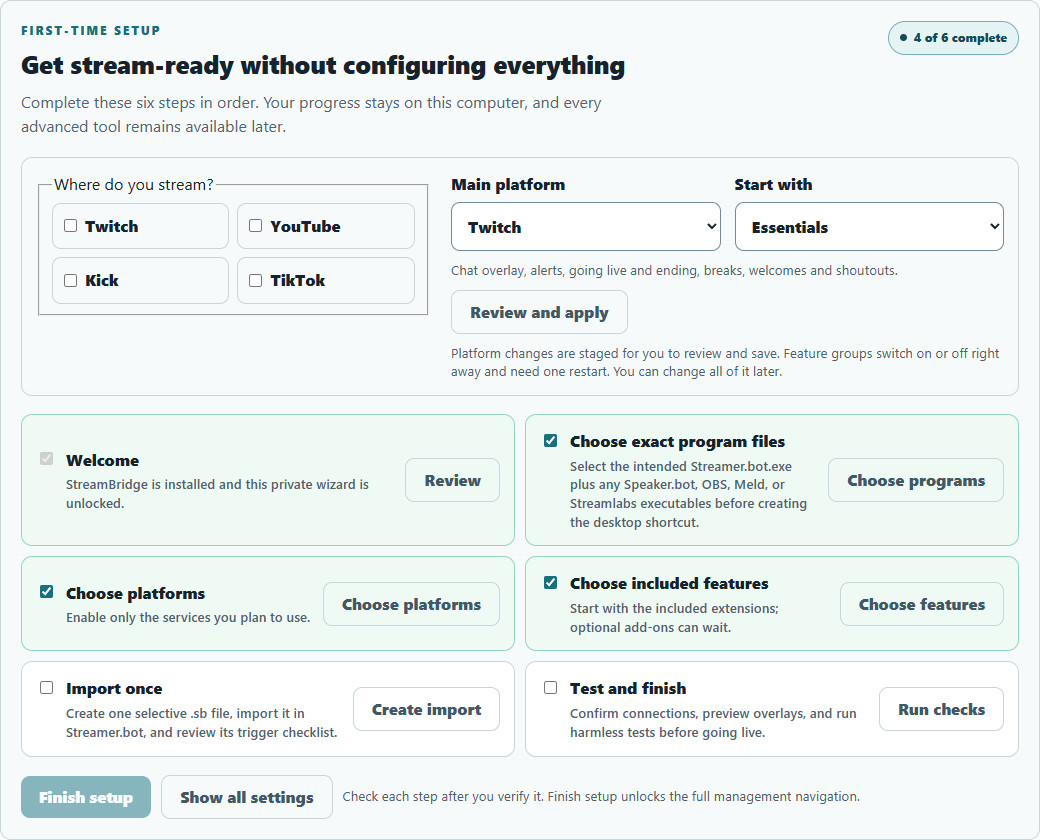
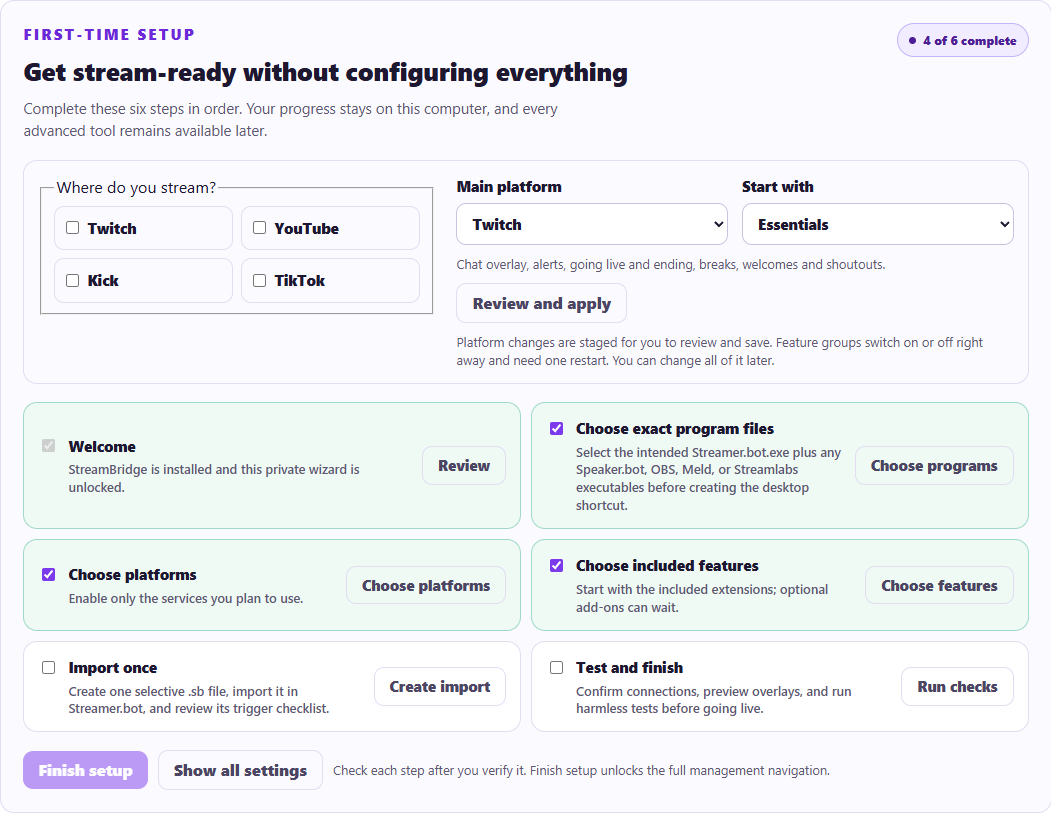
Wizard refresh, part 2: purple theme, card sections, pill controls
- One purple accent on a deep purple-black page (dark) or a soft lilac
  page (light), charcoal or white cards with 14px corners.
- Every foldable section reads as a card: bold title, soft subtitle and a
  round fold button on the right (nested add-on sections too).
- The Settings / Streamer.bot / Overlay / Status bar is one wide pill bar
  with the open tab filled.
- Short choice lists (2 to 4 short options) in add-on settings become pill
  buttons; the select stays in the form, hidden, so saving is unchanged.
- Pill-shaped preview, copy and compact buttons; soft card fieldsets.
- Quick start screenshots retaken in the new look.

diff --git a/wizard/browser/styles.css b/wizard/browser/styles.css
@@ -1019,3 +1019,70 @@ button{padding:9px 15px}
 .stepper-up::after{content:"";position:absolute;top:50%;left:50%;width:2px;height:12px;border-radius:2px;background:currentColor;transform:translate(-50%,-50%)}
 .stepper-up{position:relative}
 .stepper:has(input:disabled) .stepper-button{opacity:.4;cursor:not-allowed}
+
+
+/* ---------- Refresh, part 2: one purple accent, card sections, pill controls ----------
+   Theme tokens first, so every older rule picks up the new palette; then card-style sections with a round
+   fold button, a pill tab bar, pill choice buttons (wizard/ui-refresh.js) and pill preview chips. */
+:root:not([data-theme="light"]){
+  --page:#0c0a16;--page-accent:#26145a;--text:#f5f3ff;--muted:#b4b0c6;--subtle:#a7a3ba;
+  --surface:rgba(19,18,26,.97);--panel:#16151d;--code:#0f0e15;--border:#2b2938;
+  --input:#0f0e15;--input-border:#3a3749;--button:#8b5cf6;--button-hover:#9d76f8;--accent:#a78bfa;
+  --active:#2a1f4d;--active-text:#f5f3ff;--nav:#c9c5da;--nav-hover:rgba(167,139,250,.1);
+  --eyebrow:#b9a3ff;--badge-bg:#1d1736;--badge-border:#4b3a85;--badge-text:#d8ccff;
+  --owned-bg:#221a40;--owned-text:#d8ccff;--owned-border:#4b3a85;--notice:#17142a;
+  --small:#9d99b0;--shadow:#0008;--radius-lg:16px;--radius-md:14px;--radius-sm:10px
+}
+:root[data-theme="light"]{
+  --page:#f6f5fb;--page-accent:#e7defd;--text:#1d1830;--muted:#5d5873;--subtle:#5d5873;
+  --surface:rgba(255,255,255,.98);--panel:#fbfaff;--code:#f1eefb;--border:#e2ddf0;
+  --input:#fff;--input-border:#c9c2e0;--button:#7c3aed;--button-hover:#6d28d9;--accent:#6d28d9;
+  --active:#efe9ff;--active-text:#2e1a63;--nav:#4b4563;--nav-hover:rgba(124,58,237,.07);
+  --eyebrow:#6d28d9;--badge-bg:#f1ecff;--badge-border:#c5b3fb;--badge-text:#4c1d95;
+  --owned-bg:#f1ecff;--owned-text:#4c1d95;--owned-border:#c5b3fb;--notice:#f4f1fe;
+  --small:#6b6683;--radius-lg:16px;--radius-md:14px;--radius-sm:10px
+}
+body{background:radial-gradient(ellipse at 70% -10%,var(--page-accent) 0,transparent 55%),radial-gradient(ellipse at 0 100%,color-mix(in srgb,var(--page-accent) 55%,transparent) 0,transparent 45%),var(--page)}
+
+/* Cards */
+.transaction,.form-section,.item,.stat,.addon-card,.main-feature-card{border-color:var(--border);border-radius:var(--radius-md);background:var(--panel)}
+.transaction{padding:22px}
+.content h2{font-weight:900;letter-spacing:-.01em}
+button:not(.ghost):not(.nav):not(.addon-tab):not(.segmented-option):hover{background:var(--button-hover)}
+.ghost{border-radius:var(--radius-sm)}
+input:focus-visible,select:focus-visible,textarea:focus-visible{border-color:var(--accent);box-shadow:0 0 0 3px color-mix(in srgb,var(--accent) 25%,transparent);outline:none}
+
+/* Card sections: title row with a round fold button on the right */
+:is(.form-section,.addon-step,.analytics-details,.main-feature-details,.addon-settings-section,.facebook-section)>summary{position:relative;min-height:40px;padding-right:58px;font-size:1.02rem}
+:is(.form-section,.addon-step,.analytics-details,.main-feature-details,.addon-settings-section,.facebook-section)>summary::after{content:'';position:absolute;top:50%;right:6px;width:34px;height:34px;margin-top:-17px;border:1.5px solid var(--border);border-radius:50%;transition:border-color var(--ease),background-color var(--ease)}
+:is(.form-section,.addon-step,.analytics-details,.main-feature-details,.addon-settings-section,.facebook-section)>summary:hover::after{border-color:var(--accent);background:var(--nav-hover)}
+:is(.form-section,.addon-step,.analytics-details,.main-feature-details,.addon-settings-section,.facebook-section)>summary::before{position:absolute;top:50%;right:20px;width:7px;height:7px;margin-top:-6px;transform:rotate(45deg);color:var(--muted)}
+:is(.form-section,.addon-step,.analytics-details,.main-feature-details,.addon-settings-section,.facebook-section)[open]>summary::before{margin-top:-2px;transform:rotate(-135deg);color:var(--accent)}
+:is(.form-section,.addon-step,.analytics-details,.main-feature-details,.addon-settings-section,.facebook-section)>summary small{font-weight:500;color:var(--muted)}
+
+/* Settings / Overlay / Status: one wide pill bar, the open tab filled */
+.addon-tabs{gap:6px;padding:5px;border-radius:14px;background:color-mix(in srgb,var(--panel) 70%,var(--border) 30%);border-color:transparent}
+.addon-tab{min-height:40px;border-radius:10px}
+.addon-tab[aria-selected="true"],.addon-tab[aria-selected="true"]:hover{background:var(--button);color:#fff;box-shadow:0 6px 18px color-mix(in srgb,var(--button) 35%,transparent)}
+
+/* Pill choice buttons for short lists (the select stays underneath for saving) */
+.segmented{display:flex;flex-wrap:wrap;gap:4px;padding:4px;border:1px solid var(--border);border-radius:12px;background:var(--input)}
+.segmented-option{flex:1 1 0;min-width:max-content;min-height:36px;padding:7px 14px;border:0;border-radius:9px;background:transparent;color:var(--muted);font-weight:700;box-shadow:none}
+.segmented-option:hover{color:var(--text);background:var(--nav-hover);transform:none}
+.segmented-option[aria-pressed="true"]{background:var(--button);color:#fff}
+.segmented-option:focus-visible{outline:3px solid var(--eyebrow);outline-offset:2px}
+select.segmented-source{display:none}
+
+/* Small helper buttons, preview and copy actions read as pills */
+button.compact,.ghost.compact,[data-overlay-safe-preview],[data-copy-addon-overlay]{border-radius:999px}
+.status-chip,.badge{border-radius:999px}
+
+/* Switches pick up the accent glow */
+:is(label.check,label.compact-toggle,label.platform-toggle,label.platform-toggle-main,label.timed-enabled,label.timed-live-toggle)>input[type=checkbox]:not([required]):checked{box-shadow:0 0 0 3px color-mix(in srgb,var(--button) 22%,transparent)}
+.addon-toggle input[type=checkbox]:checked+i{background:var(--button)}
+
+/* Grouped fields read as soft cards instead of the browser's default frame */
+fieldset{border:1px solid var(--border);border-radius:var(--radius-md);padding:14px 16px;background:color-mix(in srgb,var(--panel) 85%,transparent)}
+legend{padding:0 6px;color:var(--text);font-weight:800}
+.addon-settings-section{border:1px solid var(--border);border-radius:var(--radius-md);background:var(--panel);padding:4px 16px}
+.addon-settings-section>summary{padding-top:10px;padding-bottom:10px}

diff --git a/wizard/browser/ui-refresh.js b/wizard/browser/ui-refresh.js
@@ -62,7 +62,40 @@
       button.prepend(icon);
     }
   };
+  // Short choice lists (2 to 4 short options) become a row of pill buttons. The select stays in the form,
+  // hidden, so saving and the page's own change handlers work unchanged.
+  const segment = (select) => {
+    const options = [...select.options];
+    if (select.multiple || options.length < 2 || options.length > 4 || options.some((option) => option.text.trim().length > 18 || option.disabled)) return;
+    select.dataset.segmented = 'true';
+    const label = select.closest('label');
+    const group = document.createElement('div');
+    group.className = 'segmented';
+    group.setAttribute('role', 'group');
+    const name = label ? [...label.childNodes].filter((node) => node.nodeType === 3).map((node) => node.textContent.trim()).join(' ').trim() : '';
+    if (name) group.setAttribute('aria-label', name);
+    const sync = () => { for (const button of group.children) button.setAttribute('aria-pressed', String(button.dataset.value === select.value)); };
+    for (const option of options) {
+      const button = document.createElement('button');
+      button.type = 'button';
+      button.className = 'segmented-option';
+      button.dataset.value = option.value;
+      button.textContent = option.text.trim();
+      button.addEventListener('click', () => {
+        if (select.value === option.value) return;
+        select.value = option.value;
+        select.dispatchEvent(new Event('input', { bubbles: true }));
+        select.dispatchEvent(new Event('change', { bubbles: true }));
+      });
+      group.append(button);
+    }
+    select.addEventListener('change', sync);
+    select.classList.add('segmented-source');
+    select.after(group);
+    sync();
+  };
   const enhance = (root) => {
+    for (const select of root.querySelectorAll('.addon-setting select:not([data-segmented]):not([data-scene-catalog-select])')) segment(select);
     for (const input of root.querySelectorAll('input[type="number"]:not([data-stepper])')) {
       input.dataset.stepper = 'true';
       const wrapper = document.createElement('span');
